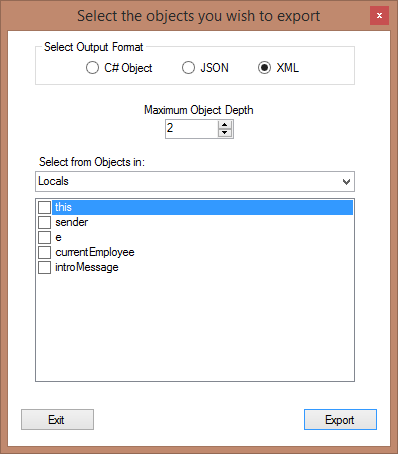
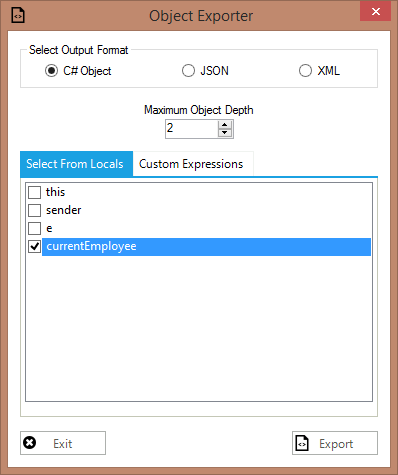
Resolved issue #13, support for C# Serializer exporting single type (Still needs a preceding type)

diff --git a/ObjectExporter.Core/Templates/CSharpGenerator.cs b/ObjectExporter.Core/Templates/CSharpGenerator.cs
@@ -29,18 +29,32 @@ namespace ObjectExporter.Core.Templates
         /// </summary>
         public virtual string TransformText()
         {
-            this.Write("var ");
             
             #line 9 "C:\Users\Arel\Documents\GitHub\ObjectExporter\ObjectExporter.Core\Templates\CSharpGenerator.tt"
-            this.Write(this.ToStringHelper.ToStringWithCulture(objectExpression.Name));
+
+    if(CanBeExpressedAsSingleType(objectExpression.Type) || objectExpression.DataMembers.Count == 0)
+    {
+        ExportMembers(objectExpression, 0, true);
+    }
+    else
+    {
+        
+            
+            #line default
+            #line hidden
+            this.Write("var ");
+            
+            #line 16 "C:\Users\Arel\Documents\GitHub\ObjectExporter\ObjectExporter.Core\Templates\CSharpGenerator.tt"
+            this.Write(this.ToStringHelper.ToStringWithCulture(GeneratorHelper.ResolveReservedNames(objectExpression.Name)));
             
             #line default
             #line hidden
             this.Write(" = ");
             
-            #line 9 "C:\Users\Arel\Documents\GitHub\ObjectExporter\ObjectExporter.Core\Templates\CSharpGenerator.tt"
+            #line 16 "C:\Users\Arel\Documents\GitHub\ObjectExporter\ObjectExporter.Core\Templates\CSharpGenerator.tt"
 
-ExportMembers(objectExpression, 0, true);
+        ExportMembers(objectExpression, 0, true);
+    }
 
             
             #line default
@@ -49,13 +63,16 @@ ExportMembers(objectExpression, 0, true);
             return this.GenerationEnvironment.ToString();
         }
         
-        #line 12 "C:\Users\Arel\Documents\GitHub\ObjectExporter\ObjectExporter.Core\Templates\CSharpGenerator.tt"
+        #line 20 "C:\Users\Arel\Documents\GitHub\ObjectExporter\ObjectExporter.Core\Templates\CSharpGenerator.tt"
 
     bool isFirstElement = true;
 
     public void ExportMembers(Expression expression, int recursionLevel, bool isLast)
     {
-        if(!GeneratorHelper.IsSerializable(expression.Name))
+        //resolved reserved keywords such as class, this becomes @class.
+        string expressionName = GeneratorHelper.ResolveReservedNames(expression.Name);
+
+        if(!GeneratorHelper.IsSerializable(expressionName))
         {
             return;
         }
@@ -67,48 +84,48 @@ ExportMembers(objectExpression, 0, true);
         #line default
         #line hidden
         
-        #line 24 "C:\Users\Arel\Documents\GitHub\ObjectExporter\ObjectExporter.Core\Templates\CSharpGenerator.tt"
-this.Write(this.ToStringHelper.ToStringWithCulture(expression.Name));
+        #line 35 "C:\Users\Arel\Documents\GitHub\ObjectExporter\ObjectExporter.Core\Templates\CSharpGenerator.tt"
+this.Write(this.ToStringHelper.ToStringWithCulture(expressionName));
 
         
         #line default
         #line hidden
         
-        #line 24 "C:\Users\Arel\Documents\GitHub\ObjectExporter\ObjectExporter.Core\Templates\CSharpGenerator.tt"
+        #line 35 "C:\Users\Arel\Documents\GitHub\ObjectExporter\ObjectExporter.Core\Templates\CSharpGenerator.tt"
 this.Write(" = ");
 
         
         #line default
         #line hidden
         
-        #line 24 "C:\Users\Arel\Documents\GitHub\ObjectExporter\ObjectExporter.Core\Templates\CSharpGenerator.tt"
+        #line 35 "C:\Users\Arel\Documents\GitHub\ObjectExporter\ObjectExporter.Core\Templates\CSharpGenerator.tt"
 this.Write(this.ToStringHelper.ToStringWithCulture(GetSingleTypeValue(expression) + GeneratorHelper.WriteCommaIfNotLast(isLast)));
 
         
         #line default
         #line hidden
         
-        #line 24 "C:\Users\Arel\Documents\GitHub\ObjectExporter\ObjectExporter.Core\Templates\CSharpGenerator.tt"
+        #line 35 "C:\Users\Arel\Documents\GitHub\ObjectExporter\ObjectExporter.Core\Templates\CSharpGenerator.tt"
 
         }
         else if (expression.DataMembers.Count == 0)
         {
             WriteLine("");
-            if(expression.Name.Contains("<") || expression.Name.Contains(">") || expression.Name.Contains("[") || expression.Name.Contains("]"))
+            if(expressionName.Contains("<") || expressionName.Contains(">") || expressionName.Contains("[") || expressionName.Contains("]"))
             {
                 
         
         #line default
         #line hidden
         
-        #line 31 "C:\Users\Arel\Documents\GitHub\ObjectExporter\ObjectExporter.Core\Templates\CSharpGenerator.tt"
+        #line 42 "C:\Users\Arel\Documents\GitHub\ObjectExporter\ObjectExporter.Core\Templates\CSharpGenerator.tt"
 this.Write(this.ToStringHelper.ToStringWithCulture(expression.Value + GeneratorHelper.WriteCommaIfNotLast(isLast)));
 
         
         #line default
         #line hidden
         
-        #line 31 "C:\Users\Arel\Documents\GitHub\ObjectExporter\ObjectExporter.Core\Templates\CSharpGenerator.tt"
+        #line 42 "C:\Users\Arel\Documents\GitHub\ObjectExporter\ObjectExporter.Core\Templates\CSharpGenerator.tt"
 
             }
             else
@@ -118,28 +135,28 @@ this.Write(this.ToStringHelper.ToStringWithCulture(expression.Value + GeneratorH
         #line default
         #line hidden
         
-        #line 35 "C:\Users\Arel\Documents\GitHub\ObjectExporter\ObjectExporter.Core\Templates\CSharpGenerator.tt"
-this.Write(this.ToStringHelper.ToStringWithCulture(expression.Name));
+        #line 46 "C:\Users\Arel\Documents\GitHub\ObjectExporter\ObjectExporter.Core\Templates\CSharpGenerator.tt"
+this.Write(this.ToStringHelper.ToStringWithCulture(expressionName));
 
         
         #line default
         #line hidden
         
-        #line 35 "C:\Users\Arel\Documents\GitHub\ObjectExporter\ObjectExporter.Core\Templates\CSharpGenerator.tt"
+        #line 46 "C:\Users\Arel\Documents\GitHub\ObjectExporter\ObjectExporter.Core\Templates\CSharpGenerator.tt"
 this.Write(" = ");
 
         
         #line default
         #line hidden
         
-        #line 35 "C:\Users\Arel\Documents\GitHub\ObjectExporter\ObjectExporter.Core\Templates\CSharpGenerator.tt"
+        #line 46 "C:\Users\Arel\Documents\GitHub\ObjectExporter\ObjectExporter.Core\Templates\CSharpGenerator.tt"
 this.Write(this.ToStringHelper.ToStringWithCulture(expression.Value + GeneratorHelper.WriteCommaIfNotLast(isLast)));
 
         
         #line default
         #line hidden
         
-        #line 35 "C:\Users\Arel\Documents\GitHub\ObjectExporter\ObjectExporter.Core\Templates\CSharpGenerator.tt"
+        #line 46 "C:\Users\Arel\Documents\GitHub\ObjectExporter\ObjectExporter.Core\Templates\CSharpGenerator.tt"
 
             }
         }
@@ -162,42 +179,42 @@ this.Write(this.ToStringHelper.ToStringWithCulture(expression.Value + GeneratorH
         #line default
         #line hidden
         
-        #line 52 "C:\Users\Arel\Documents\GitHub\ObjectExporter\ObjectExporter.Core\Templates\CSharpGenerator.tt"
-this.Write(this.ToStringHelper.ToStringWithCulture(expression.Name));
+        #line 63 "C:\Users\Arel\Documents\GitHub\ObjectExporter\ObjectExporter.Core\Templates\CSharpGenerator.tt"
+this.Write(this.ToStringHelper.ToStringWithCulture(expressionName));
 
         
         #line default
         #line hidden
         
-        #line 52 "C:\Users\Arel\Documents\GitHub\ObjectExporter\ObjectExporter.Core\Templates\CSharpGenerator.tt"
+        #line 63 "C:\Users\Arel\Documents\GitHub\ObjectExporter\ObjectExporter.Core\Templates\CSharpGenerator.tt"
 this.Write(" = new ");
 
         
         #line default
         #line hidden
         
-        #line 52 "C:\Users\Arel\Documents\GitHub\ObjectExporter\ObjectExporter.Core\Templates\CSharpGenerator.tt"
+        #line 63 "C:\Users\Arel\Documents\GitHub\ObjectExporter\ObjectExporter.Core\Templates\CSharpGenerator.tt"
 this.Write(this.ToStringHelper.ToStringWithCulture(expression.Type));
 
         
         #line default
         #line hidden
         
-        #line 52 "C:\Users\Arel\Documents\GitHub\ObjectExporter\ObjectExporter.Core\Templates\CSharpGenerator.tt"
+        #line 63 "C:\Users\Arel\Documents\GitHub\ObjectExporter\ObjectExporter.Core\Templates\CSharpGenerator.tt"
  
                 WriteLine(""); 
         
         #line default
         #line hidden
         
-        #line 53 "C:\Users\Arel\Documents\GitHub\ObjectExporter\ObjectExporter.Core\Templates\CSharpGenerator.tt"
+        #line 64 "C:\Users\Arel\Documents\GitHub\ObjectExporter\ObjectExporter.Core\Templates\CSharpGenerator.tt"
 this.Write("{");
 
         
         #line default
         #line hidden
         
-        #line 53 "C:\Users\Arel\Documents\GitHub\ObjectExporter\ObjectExporter.Core\Templates\CSharpGenerator.tt"
+        #line 64 "C:\Users\Arel\Documents\GitHub\ObjectExporter\ObjectExporter.Core\Templates\CSharpGenerator.tt"
 
             }
             else
@@ -207,35 +224,35 @@ this.Write("{");
         #line default
         #line hidden
         
-        #line 57 "C:\Users\Arel\Documents\GitHub\ObjectExporter\ObjectExporter.Core\Templates\CSharpGenerator.tt"
+        #line 68 "C:\Users\Arel\Documents\GitHub\ObjectExporter\ObjectExporter.Core\Templates\CSharpGenerator.tt"
 this.Write("new ");
 
         
         #line default
         #line hidden
         
-        #line 57 "C:\Users\Arel\Documents\GitHub\ObjectExporter\ObjectExporter.Core\Templates\CSharpGenerator.tt"
+        #line 68 "C:\Users\Arel\Documents\GitHub\ObjectExporter\ObjectExporter.Core\Templates\CSharpGenerator.tt"
 this.Write(this.ToStringHelper.ToStringWithCulture(expression.Type));
 
         
         #line default
         #line hidden
         
-        #line 57 "C:\Users\Arel\Documents\GitHub\ObjectExporter\ObjectExporter.Core\Templates\CSharpGenerator.tt"
+        #line 68 "C:\Users\Arel\Documents\GitHub\ObjectExporter\ObjectExporter.Core\Templates\CSharpGenerator.tt"
 
                 WriteLine(""); 
         
         #line default
         #line hidden
         
-        #line 58 "C:\Users\Arel\Documents\GitHub\ObjectExporter\ObjectExporter.Core\Templates\CSharpGenerator.tt"
+        #line 69 "C:\Users\Arel\Documents\GitHub\ObjectExporter\ObjectExporter.Core\Templates\CSharpGenerator.tt"
 this.Write("{");
 
         
         #line default
         #line hidden
         
-        #line 58 "C:\Users\Arel\Documents\GitHub\ObjectExporter\ObjectExporter.Core\Templates\CSharpGenerator.tt"
+        #line 69 "C:\Users\Arel\Documents\GitHub\ObjectExporter\ObjectExporter.Core\Templates\CSharpGenerator.tt"
 
             }
 
@@ -262,28 +279,28 @@ this.Write("{");
         #line default
         #line hidden
         
-        #line 79 "C:\Users\Arel\Documents\GitHub\ObjectExporter\ObjectExporter.Core\Templates\CSharpGenerator.tt"
+        #line 90 "C:\Users\Arel\Documents\GitHub\ObjectExporter\ObjectExporter.Core\Templates\CSharpGenerator.tt"
 this.Write("}");
 
         
         #line default
         #line hidden
         
-        #line 79 "C:\Users\Arel\Documents\GitHub\ObjectExporter\ObjectExporter.Core\Templates\CSharpGenerator.tt"
+        #line 90 "C:\Users\Arel\Documents\GitHub\ObjectExporter\ObjectExporter.Core\Templates\CSharpGenerator.tt"
 
             
         
         #line default
         #line hidden
         
-        #line 80 "C:\Users\Arel\Documents\GitHub\ObjectExporter\ObjectExporter.Core\Templates\CSharpGenerator.tt"
+        #line 91 "C:\Users\Arel\Documents\GitHub\ObjectExporter\ObjectExporter.Core\Templates\CSharpGenerator.tt"
 this.Write(this.ToStringHelper.ToStringWithCulture(GeneratorHelper.WriteCommaIfNotLast(isLast)));
 
         
         #line default
         #line hidden
         
-        #line 80 "C:\Users\Arel\Documents\GitHub\ObjectExporter\ObjectExporter.Core\Templates\CSharpGenerator.tt"
+        #line 91 "C:\Users\Arel\Documents\GitHub\ObjectExporter\ObjectExporter.Core\Templates\CSharpGenerator.tt"
 
         }
     }

diff --git a/ObjectExporter.Core/Templates/GeneratorHelper.cs b/ObjectExporter.Core/Templates/GeneratorHelper.cs
@@ -1,5 +1,6 @@
 using System;
 using EnvDTE;
+using ObjectExporter.Core.Globals;
 
 namespace ObjectExporter.Core.Templates
 {
@@ -65,6 +66,18 @@ namespace ObjectExporter.Core.Templates
             DateTimeOffset dateTimeOffset = new DateTimeOffset(dateTime, offset);
 
             return dateTimeOffset.ToString();
+        }
+
+        public static string ResolveReservedNames(string expressionName)
+        {
+            if (ReservedWords.CSharp.Contains(expressionName))
+            {
+                return ("@" + expressionName);
+            }
+            else
+            {
+                return expressionName;
+            }
         }
     }
 }

diff --git a/ObjectExporter.VsPackage/User Interface/FormSelectObjects.cs b/ObjectExporter.VsPackage/User Interface/FormSelectObjects.cs
@@ -189,7 +189,7 @@ namespace AccretionDynamics.ObjectExporter.VsPackage.UserInterface
 
         private void radGridViewCustomExpressions_CellValueChanged(object sender, GridViewCellEventArgs e)
         {
-            if (e.Column.Index == 0) //Expression Name Column
+            if (e.Column.Index == 0 && e.Value != null) //Expression Name Column
             {
                 string expressionName = e.Value.ToString();
                 UpdateIsValidColumnImage(expressionName, e.Row);
